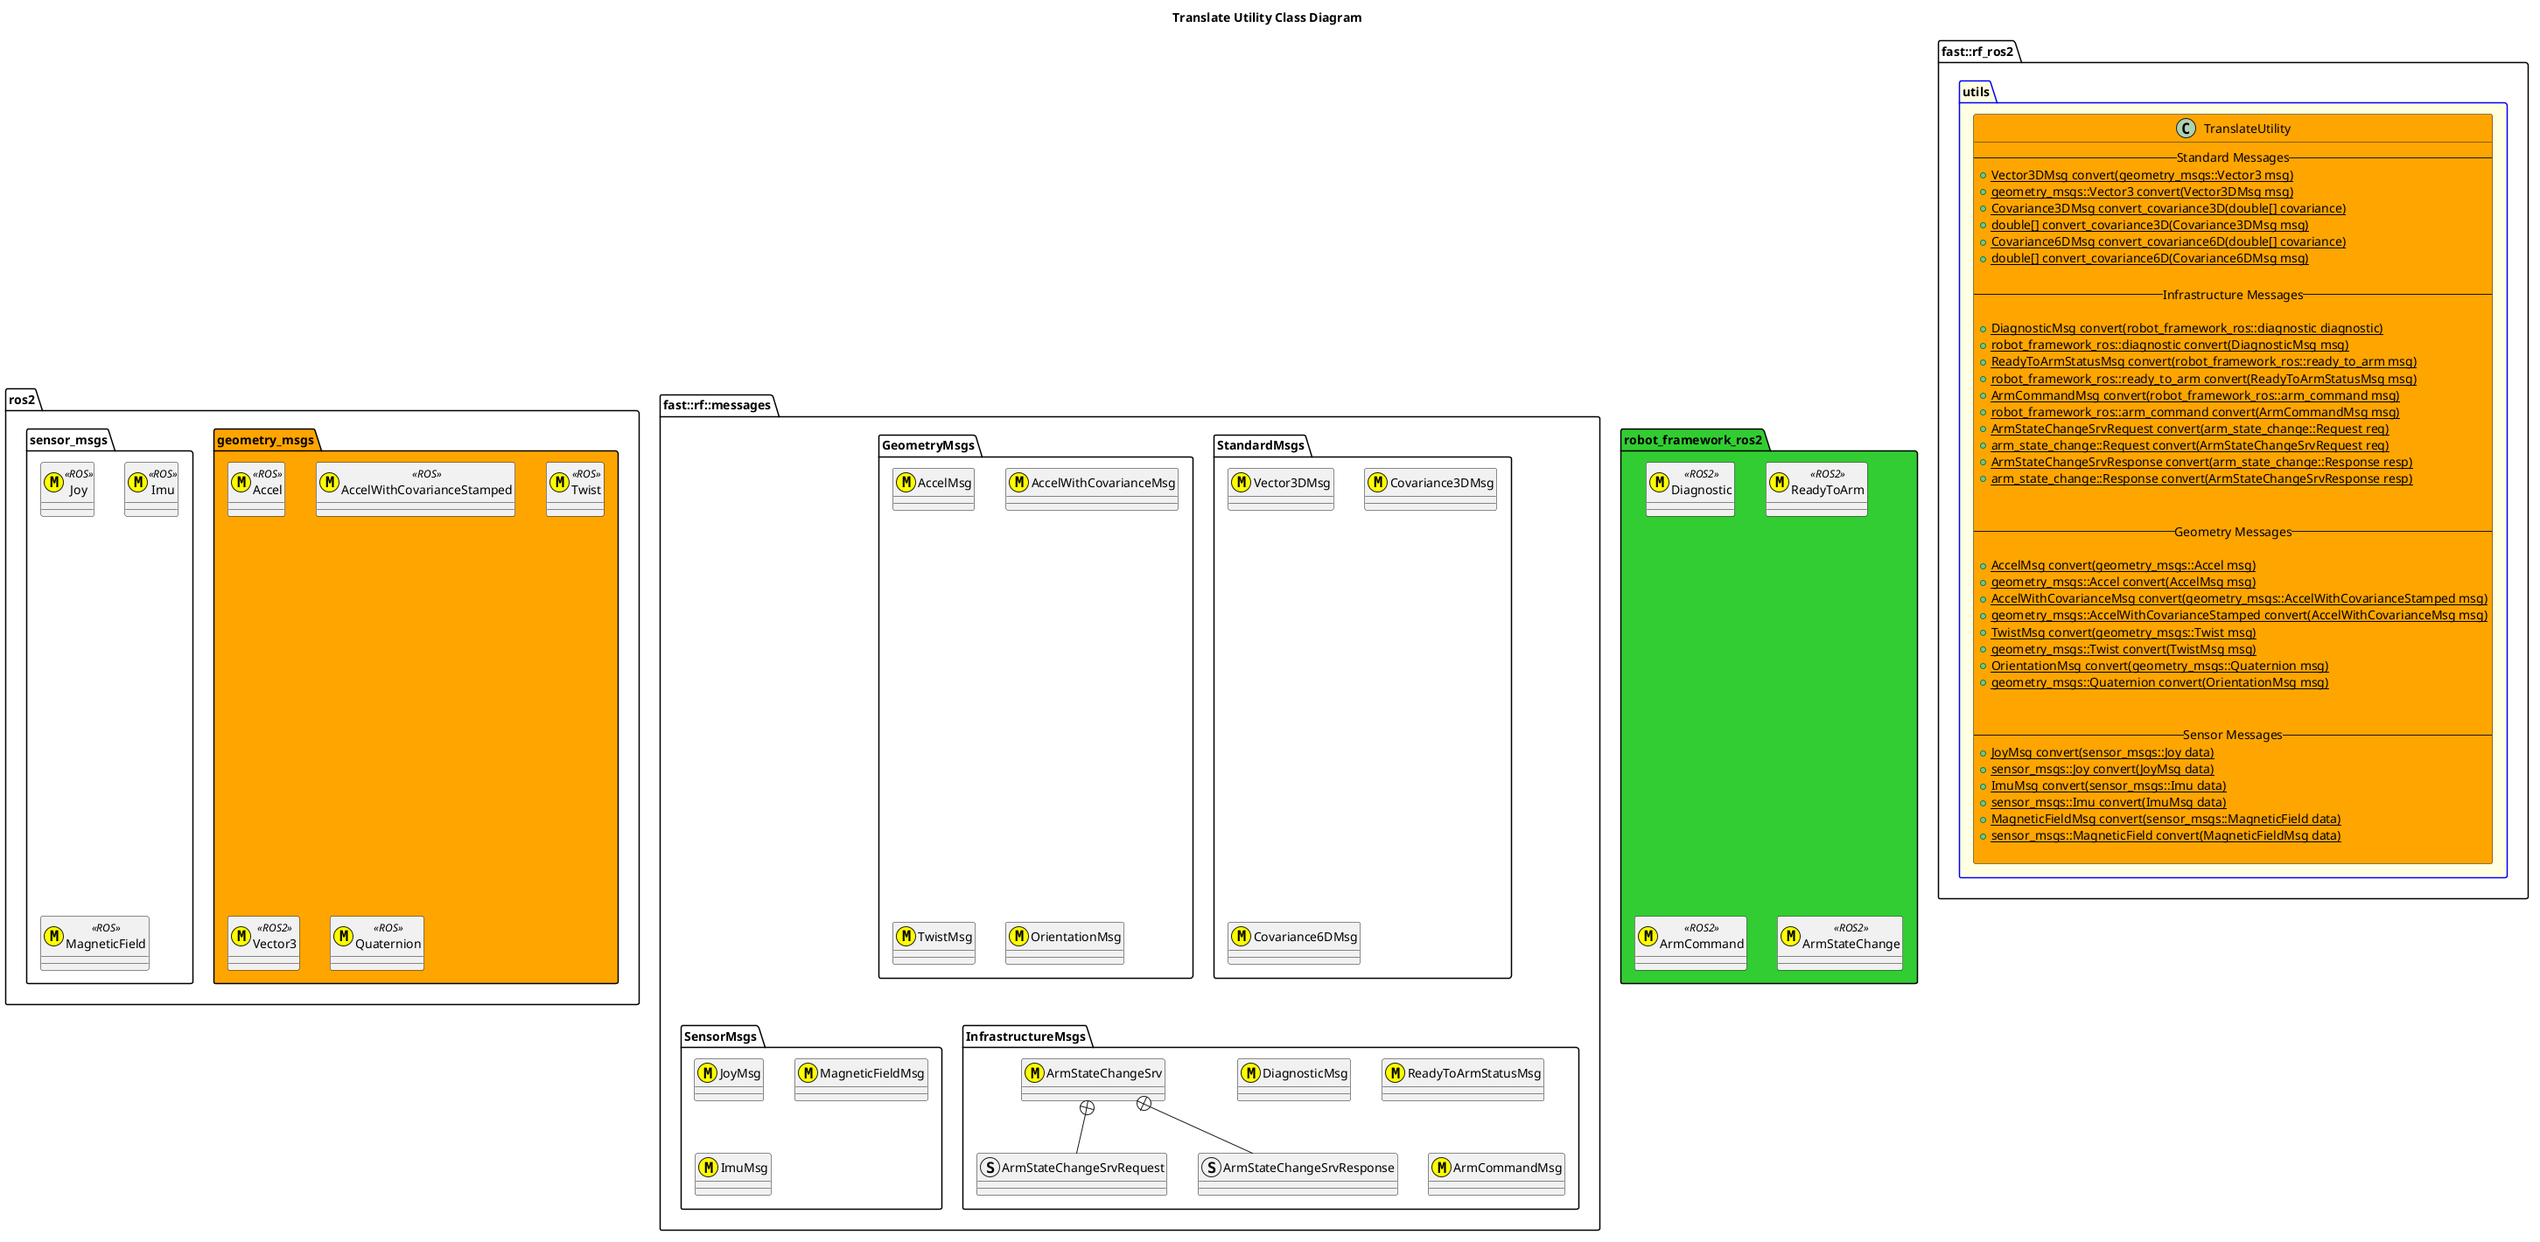
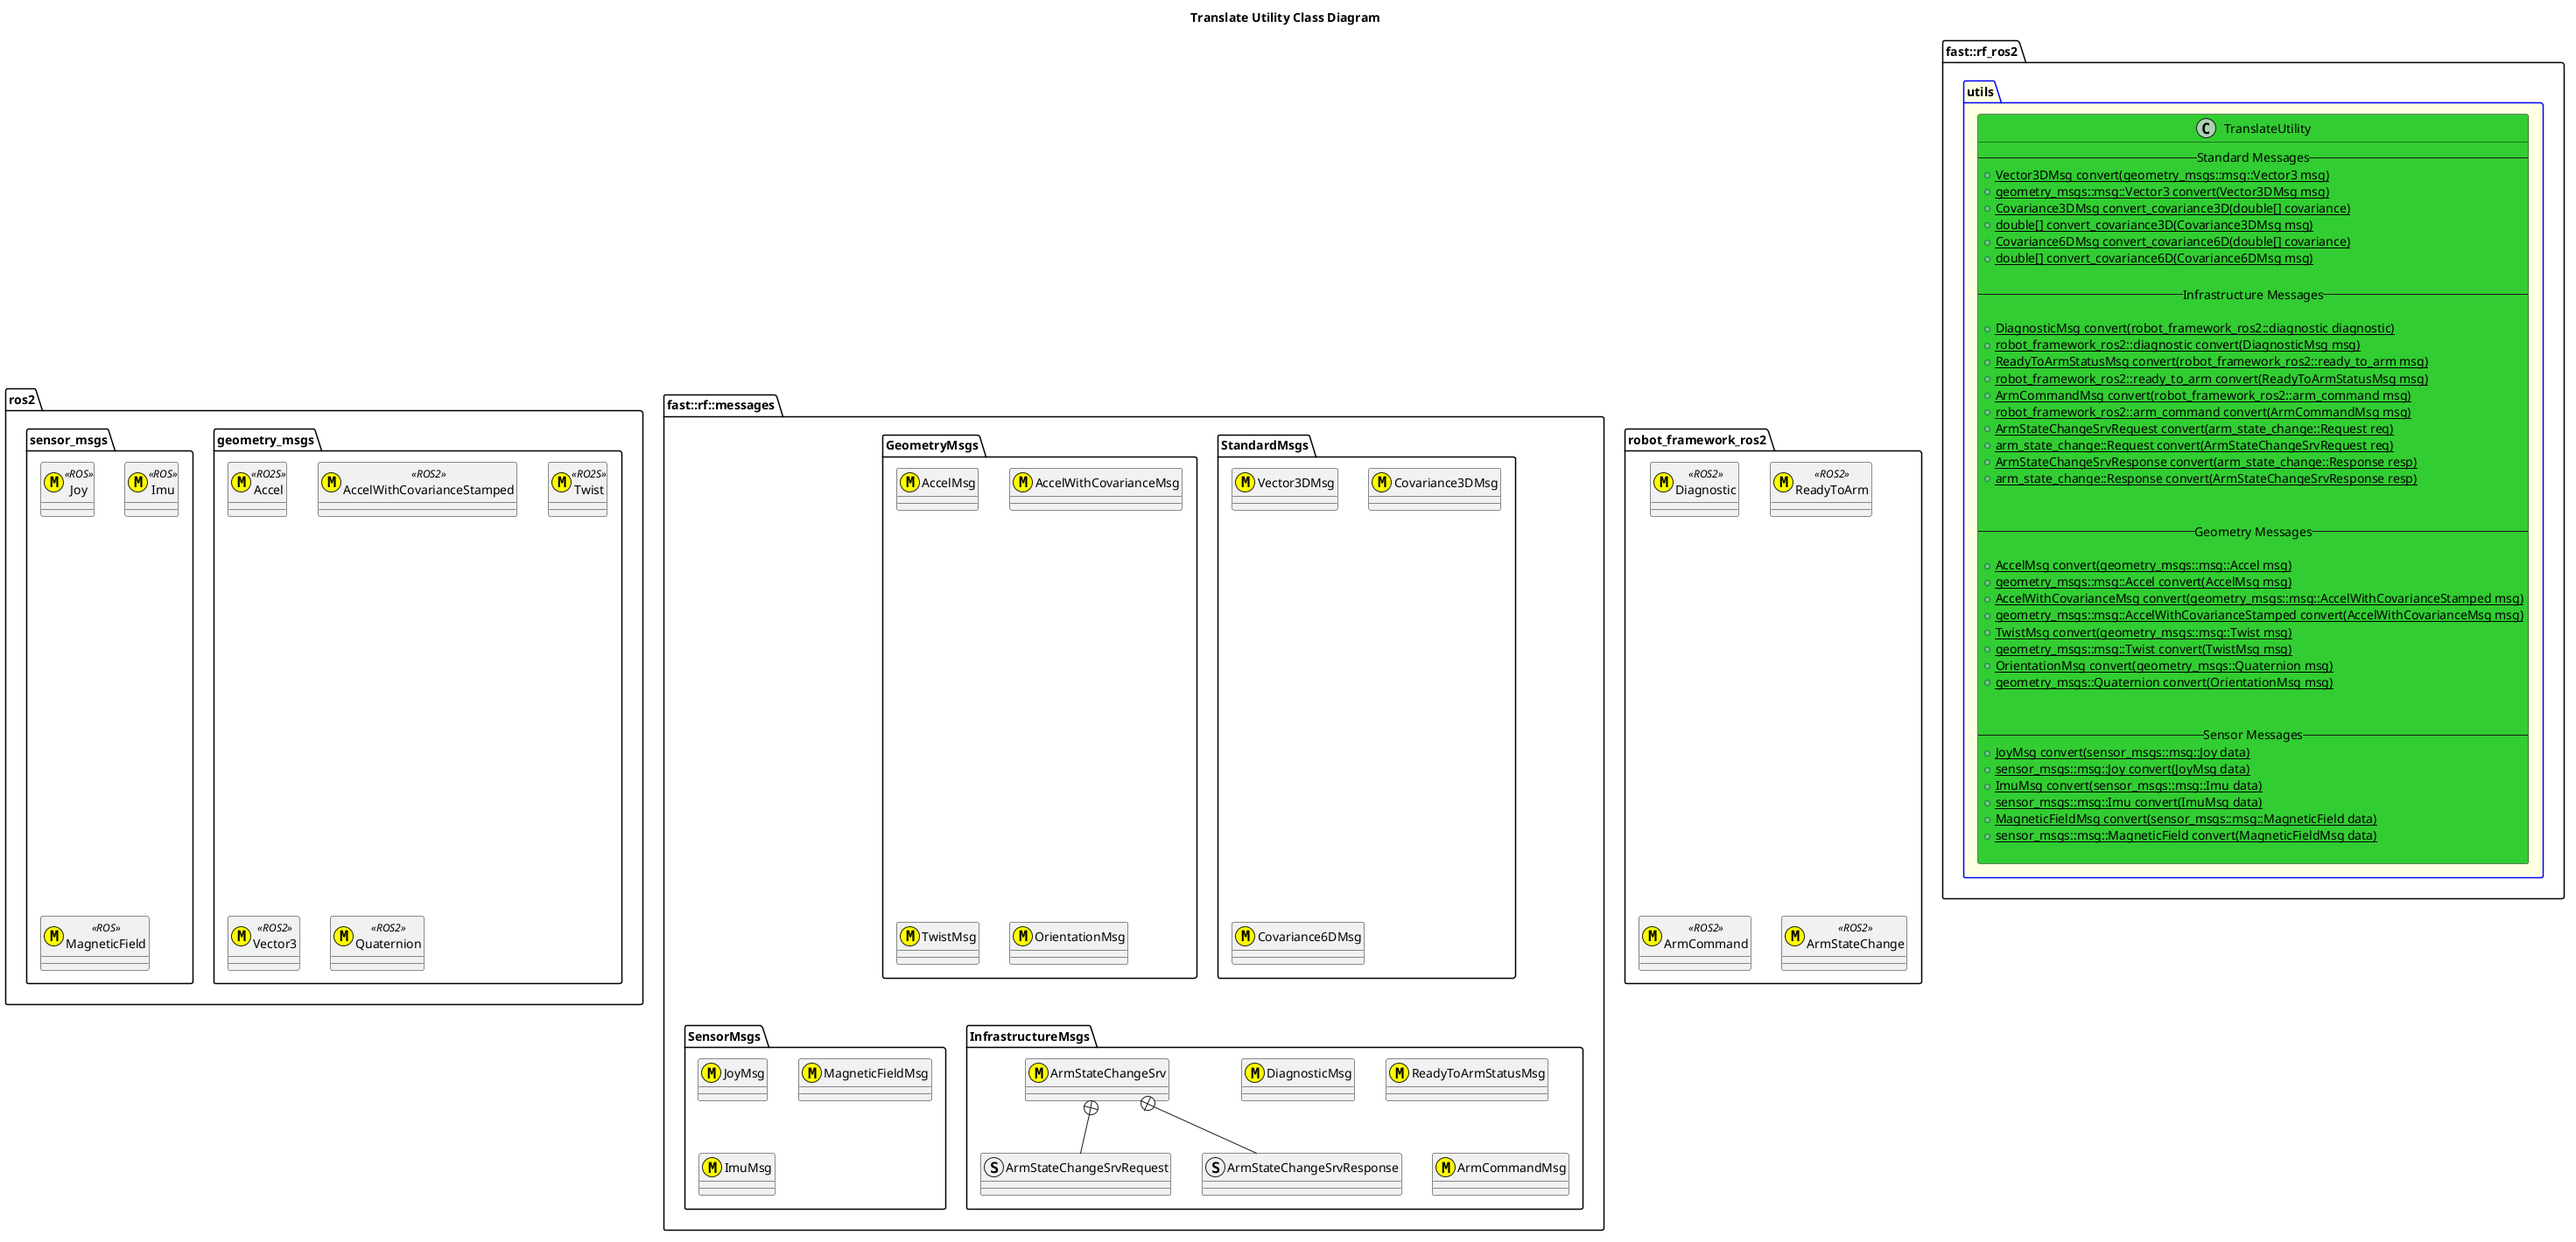
Work complete.

diff --git a/include/robot_framework_ros2/utils/TranslateUtility.hpp b/include/robot_framework_ros2/utils/TranslateUtility.hpp
@@ -18,6 +18,9 @@
 #include <Covariance3DMsg.hpp>
 #include <Covariance6DMsg.hpp>
 #include <DiagnosticMsg.hpp>
+#include <ImuMsg.hpp>
+#include <JoyMsg.hpp>
+#include <MagneticFieldMsg.hpp>
 #include <OdomMsg.hpp>
 #include <OrientationMsg.hpp>
 #include <ReadyToArmStatusMsg.hpp>
@@ -37,6 +40,9 @@
 #include <geometry_msgs/msg/twist.hpp>
 #include <geometry_msgs/msg/vector3.hpp>
 #include <nav_msgs/msg/odometry.hpp>
+#include <sensor_msgs/msg/imu.hpp>
+#include <sensor_msgs/msg/joy.hpp>
+#include <sensor_msgs/msg/magnetic_field.hpp>
 
 // General Dependencies
 #include <array>
@@ -280,51 +286,51 @@ namespace fast::rf_ros2::utils {
         // Sensor Messages
 
         /**
-         * @brief Convert from a ROS message to a Core message of type Joy
+         * @brief Convert from a ROS2 message to a Core message of type Joy
          *
          * @param msg
          * @return fast::rf::messages::SensorMsgs::JoyMsg
          */
-        // static fast::rf::messages::SensorMsgs::JoyMsg convert(sensor_msgs::Joy msg);
+        static fast::rf::messages::SensorMsgs::JoyMsg convert(sensor_msgs::msg::Joy msg);
 
         /**
-         * @brief Convert from a Core message to a ROS message of type Joy
+         * @brief Convert from a Core message to a ROS2 message of type Joy
          *
          * @param msg
-         * @return sensor_msgs::Joy
+         * @return sensor_msgs::msg::Joy
          */
-        // static sensor_msgs::Joy convert(fast::rf::messages::SensorMsgs::JoyMsg msg);
+        static sensor_msgs::msg::Joy convert(fast::rf::messages::SensorMsgs::JoyMsg msg);
 
         /**
-         * @brief Convert from a ROS message to a Core message of type Imu
+         * @brief Convert from a ROS2 message to a Core message of type Imu
          *
          * @param data
          * @return fast::rf::messages::SensorMsgs::ImuMsg
          */
-        // static fast::rf::messages::SensorMsgs::ImuMsg convert(sensor_msgs::Imu data);
+        static fast::rf::messages::SensorMsgs::ImuMsg convert(sensor_msgs::msg::Imu data);
 
         /**
-         * @brief Convert from a Core message to a ROS message of type IMU
+         * @brief Convert from a Core message to a ROS2 message of type IMU
          *
          * @param data
-         * @return sensor_msgs::Imu
+         * @return sensor_msgs::msg::Imu
          */
-        // static sensor_msgs::Imu convert(fast::rf::messages::SensorMsgs::ImuMsg data);
+        static sensor_msgs::msg::Imu convert(fast::rf::messages::SensorMsgs::ImuMsg data);
 
         /**
-         * @brief Convert from a ROS message to a Core message of type MagneticField
+         * @brief Convert from a ROS2 message to a Core message of type MagneticField
          *
          * @param data
          * @return fast::rf::messages::SensorMsgs::MagneticFieldMsg
          */
-        // static fast::rf::messages::SensorMsgs::MagneticFieldMsg convert(sensor_msgs::MagneticField data);
+        static fast::rf::messages::SensorMsgs::MagneticFieldMsg convert(sensor_msgs::msg::MagneticField data);
 
         /**
-         * @brief Convert from a Core message to a ROS message of type MagneticField
+         * @brief Convert from a Core message to a ROS2 message of type MagneticField
          *
          * @param data
-         * @return sensor_msgs::MagneticField
+         * @return sensor_msgs::msg::MagneticField
          */
-        // static sensor_msgs::MagneticField convert(fast::rf::messages::SensorMsgs::MagneticFieldMsg data);
+        static sensor_msgs::msg::MagneticField convert(fast::rf::messages::SensorMsgs::MagneticFieldMsg data);
     };
 }  // namespace fast::rf_ros2::utils

diff --git a/core/utils/TranslateUtility/TranslateUtilitySensorMsgs.cpp b/core/utils/TranslateUtility/TranslateUtilitySensorMsgs.cpp
@@ -1,0 +1,63 @@
+#include <rclcpp/rclcpp.hpp>
+
+#include "robot_framework_ros2/utils/TranslateUtility.hpp"
+namespace fast::rf_ros2::utils {
+    fast::rf::messages::SensorMsgs::JoyMsg TranslateUtility::convert(sensor_msgs::msg::Joy msg) {
+        fast::rf::messages::SensorMsgs::JoyMsg joy;
+        joy.time_stamp = rclcpp::Time(msg.header.stamp).seconds();
+        joy.axes.assign(msg.axes.begin(), msg.axes.end());
+        joy.buttons.assign(msg.buttons.begin(), msg.buttons.end());
+        return joy;
+    }
+
+    sensor_msgs::msg::Joy TranslateUtility::convert(fast::rf::messages::SensorMsgs::JoyMsg msg) {
+        sensor_msgs::msg::Joy joy;
+        joy.header.stamp = rclcpp::Time(static_cast<int64_t>(msg.time_stamp * 1e9));
+        joy.axes.assign(msg.axes.begin(), msg.axes.end());
+        joy.buttons.assign(msg.buttons.begin(), msg.buttons.end());
+        return joy;
+    }
+    fast::rf::messages::SensorMsgs::ImuMsg TranslateUtility::convert(sensor_msgs::msg::Imu data) {
+        fast::rf::messages::SensorMsgs::ImuMsg msg;
+        msg.time_stamp = rclcpp::Time(data.header.stamp).seconds();
+        msg.orientation = convert(data.orientation);
+        msg.orientation = convert(data.orientation);
+        msg.orientation_covariance = convert_covariance3D(data.orientation_covariance);
+        msg.angular_velocity = convert(data.angular_velocity);
+        msg.angular_velocity_covariance = convert_covariance3D(data.angular_velocity_covariance);
+        msg.linear_acceleration = convert(data.linear_acceleration);
+        msg.linear_acceleration_covariance = convert_covariance3D(data.linear_acceleration_covariance);
+        return msg;
+    }
+    sensor_msgs::msg::Imu TranslateUtility::convert(fast::rf::messages::SensorMsgs::ImuMsg data) {
+        sensor_msgs::msg::Imu msg;
+        if (data.time_stamp < 0.0) {
+            return msg;
+        }
+        msg.header.stamp = rclcpp::Time(static_cast<int64_t>(data.time_stamp * 1e9));
+        msg.orientation = convert(data.orientation);
+        msg.orientation_covariance = convert_covariance3D(data.orientation_covariance);
+        msg.angular_velocity = convert(data.angular_velocity);
+        msg.angular_velocity_covariance = convert_covariance3D(data.angular_velocity_covariance);
+        msg.linear_acceleration = convert(data.linear_acceleration);
+        msg.linear_acceleration_covariance = convert_covariance3D(data.linear_acceleration_covariance);
+        return msg;
+    }
+    fast::rf::messages::SensorMsgs::MagneticFieldMsg TranslateUtility::convert(sensor_msgs::msg::MagneticField data) {
+        fast::rf::messages::SensorMsgs::MagneticFieldMsg msg;
+        msg.time_stamp = rclcpp::Time(data.header.stamp).seconds();
+        msg.magnetic_field = convert(data.magnetic_field);
+        msg.magnetic_field_covariance = convert_covariance3D(data.magnetic_field_covariance);
+        return msg;
+    }
+    sensor_msgs::msg::MagneticField TranslateUtility::convert(fast::rf::messages::SensorMsgs::MagneticFieldMsg data) {
+        sensor_msgs::msg::MagneticField msg;
+        if (data.time_stamp < 0.0) {
+            return msg;
+        }
+        msg.header.stamp = rclcpp::Time(static_cast<int64_t>(data.time_stamp * 1e9));
+        msg.magnetic_field = convert(data.magnetic_field);
+        msg.magnetic_field_covariance = convert_covariance3D(data.magnetic_field_covariance);
+        return msg;
+    }
+}  // namespace fast::rf_ros2::utils

diff --git a/core/utils/TranslateUtility/test/test_TranslateUtilitySensorMsgs.cpp b/core/utils/TranslateUtility/test/test_TranslateUtilitySensorMsgs.cpp
@@ -1,0 +1,72 @@
+
+#include <gtest/gtest.h>
+
+#include "robot_framework_ros2/utils/TranslateUtility.hpp"
+
+using namespace fast::rf_ros2::utils;
+
+TEST(TestConversion, SensorMsgsConvertJoy) {
+    {  // Convert to ROS Message
+        fast::rf::messages::SensorMsgs::JoyMsg joy;
+        joy.axes.push_back(1.0);
+        joy.buttons.push_back(2);
+        auto msg = TranslateUtility::convert(joy);
+        ASSERT_EQ(msg.axes.size(), joy.axes.size());
+        ASSERT_EQ(msg.buttons.size(), joy.buttons.size());
+    }
+    {  // Convert from ROS Message
+        sensor_msgs::msg::Joy joy;
+        joy.axes.push_back(1.0);
+        joy.buttons.push_back(2);
+        auto msg = TranslateUtility::convert(joy);
+        ASSERT_EQ(msg.axes.size(), joy.axes.size());
+        ASSERT_EQ(msg.buttons.size(), joy.buttons.size());
+    }
+}
+TEST(TestConversion, SensorMsgsConvertImu) {
+    {  // Convert to ROS Message
+        fast::rf::messages::SensorMsgs::ImuMsg data;
+        data.time_stamp = 1.0;
+        data.seq = 2;
+        data.orientation.roll = 0.0;
+        data.orientation.pitch = 0.0;
+        data.orientation.yaw = 0.0;
+        auto msg = TranslateUtility::convert(data);
+        auto msg_orientation_euler = TranslateUtility::convert(msg.orientation);
+        ASSERT_FLOAT_EQ(msg_orientation_euler.roll, data.orientation.roll);
+        ASSERT_FLOAT_EQ(msg_orientation_euler.pitch, data.orientation.pitch);
+        ASSERT_FLOAT_EQ(msg_orientation_euler.yaw, data.orientation.yaw);
+    }
+    {  // Convert from ROS Message
+        sensor_msgs::msg::Imu data;
+        data.orientation.w = 1.0;
+        data.orientation.x = 0.0;
+        data.orientation.y = 0.0;
+        data.orientation.z = 0.0;
+        auto msg = TranslateUtility::convert(data);
+        ASSERT_FLOAT_EQ(msg.orientation.roll, 0.0);
+        ASSERT_FLOAT_EQ(msg.orientation.pitch, 0.0);
+        ASSERT_FLOAT_EQ(msg.orientation.yaw, 0.0);
+    }
+}
+TEST(TestConversion, SensorMsgsConvertMagneticField) {
+    {  // Convert to ROS Message
+        fast::rf::messages::SensorMsgs::MagneticFieldMsg data;
+        data.time_stamp = 1.0;
+        auto msg = TranslateUtility::convert(data);
+        ASSERT_FLOAT_EQ(msg.magnetic_field.x, data.magnetic_field.x);
+        ASSERT_FLOAT_EQ(msg.magnetic_field.y, data.magnetic_field.y);
+        ASSERT_FLOAT_EQ(msg.magnetic_field.z, data.magnetic_field.z);
+    }
+    {  // Convert from ROS Message
+        sensor_msgs::msg::MagneticField data;
+        auto msg = TranslateUtility::convert(data);
+        ASSERT_FLOAT_EQ(msg.magnetic_field.x, data.magnetic_field.x);
+        ASSERT_FLOAT_EQ(msg.magnetic_field.y, data.magnetic_field.y);
+        ASSERT_FLOAT_EQ(msg.magnetic_field.z, data.magnetic_field.z);
+    }
+}
+int main(int argc, char** argv) {
+    testing::InitGoogleTest(&argc, argv);
+    return RUN_ALL_TESTS();
+}
